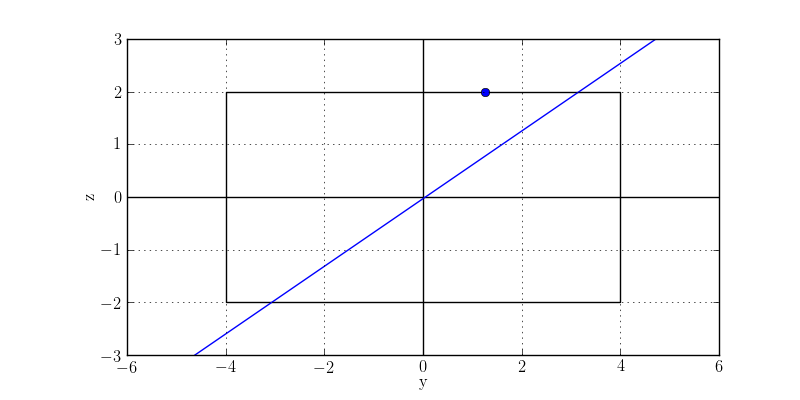
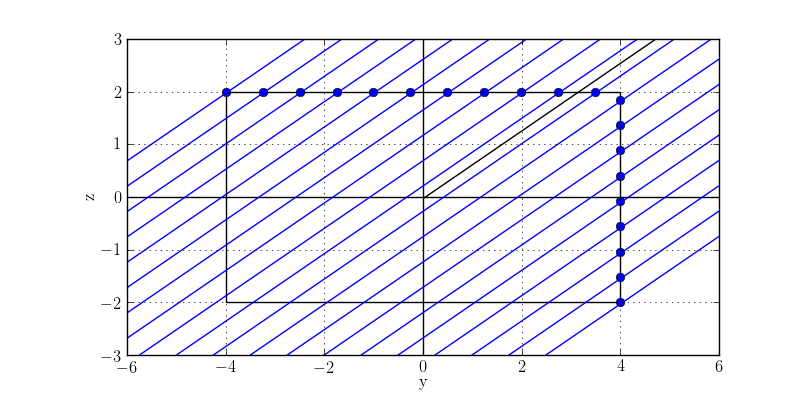
Finds starting x0,y0,z0 robustly

diff --git a/geometry.py b/geometry.py
@@ -29,6 +29,18 @@ class Orientation:
         intercept = z0 - self.slope * y0
         return lambda y: self.slope * y + intercept
 
+    def graph_on_ax(self,ax):
+        ax.grid(True)
+        ax.axhline(0,color="k")
+        ax.axvline(0,color="k")
+        ax.add_patch(plt.Rectangle((-l,-w),2*l,2*w,fill=False))
+        ax.set_xlim(-1.5*l,1.5*l)
+        ax.set_ylim(-1.5*w,1.5*w)
+        ax.set_xlabel("y")
+        ax.set_ylabel("z")
+        ys = np.linspace(0,6.0)
+        ax.plot(ys,self.center_line()(ys),"k")
+
     def __str__(self):
         return """
         theta = {theta:.2f}; {theta_deg:.2f}
@@ -45,34 +57,30 @@ class LineOfSight:
         self.delta = delta
         self.x0 = self.alpha
         self.calc_y0_z0()
+        self.pos()
         pass
 
     def calc_y0_z0(self):
         if self.delta > self.orn.delta_c:
             self.z0 = w
-            if self.delta > 0:
-                self.y0 = w * np.tan(self.orn.theta) - self.delta/np.cos(self.orn.theta)
-            else:
-                self.y0 = w * np.tan(self.orn.theta) + self.delta/np.cos(self.orn.theta)
+            self.y0 = w * np.tan(self.orn.theta) - self.delta/np.cos(self.orn.theta)
+            self.s_finish = 2.0*w/np.cos(self.orn.theta)
         else:
             self.y0 = l
-            self.z0 = l/np.tan(self.orn.theta) - self.delta/np.sin(self.orn.theta)
+            self.z0 = self.delta/np.sin(self.orn.theta) + l/np.tan(self.orn.theta)
+            self.s_finish = 2.0*l/np.sin(self.orn.theta)
 
-    def graph_on_ax(self,ax):
+    def pos(self,s):
+        x = self.x0
+        y = self.y0 - s * np.sin(self.orn.theta)
+        z = self.z0 - s * np.cos(self.orn.theta)
+        return np.array([x,y,z])
+
+    def graph_on_ax(self,ax,color="b"):
         '''ax is a matplotlib axes object.'''
-        #ax.plot([1,2],[1,2])
-        ax.grid(True)
-        ax.axhline(0,color="k")
-        ax.axvline(0,color="k")
-        ax.add_patch(plt.Rectangle((-l,-w),2*l,2*w,fill=False))
-        ax.set_xlim(-1.5*l,1.5*l)
-        ax.set_ylim(-1.5*w,1.5*w)
-        ax.set_xlabel("y")
-        ax.set_ylabel("z")
         ys = np.linspace(-6.0,6.0)
-        ax.plot(ys,self.orn.center_line()(ys))
-        #ax.plot(ys,self.line_through_point(
         ax.plot(self.y0,self.z0,"bo")
+        ax.plot(ys,self.orn.line_through_point((self.y0,self.z0))(ys),color)
         return
 
     def __str__(self):

diff --git a/geometry_test.py b/geometry_test.py
@@ -31,21 +31,34 @@ def test_delta_0():
     print(los4)
 
 
-def test_plot():
+def test_line_of_sight_w_theta():
     fig = plt.figure(figsize=(8,4))
     ax = fig.add_subplot(111)
-    orn1 = g.Orientation(1.0)
-    los1 = g.LineOfSight(orn1,1.0,0.0)
+    deg = 89.999
+    orn1 = g.Orientation(deg * np.pi/180.)
+    delta_array = np.linspace(-1*orn1.delta_limit, orn1.delta_limit,num=20)
+    los_array = [g.LineOfSight(orn1, i, 0.0) for i in delta_array]
+    orn1.graph_on_ax(ax)
     print(orn1)
-    print(los1)
-    los1.graph_on_ax(ax)
-    fig.savefig("test_plot.png")
+    for i in los_array:
+        i.graph_on_ax(ax)
+        #print(i)
+    fig.savefig("Plots/Test_Theta/test_plot{theta:.0f}.png".format(theta=(orn1.theta*180./np.pi)))
+
+def test_path_length():
+    fig = plt.figure(figsize=(8,4))
+    ax = fig.add_subplot(111)
+    deg = 50.0
+    orn1 = g.Orientation(deg * np.pi/180.)
+    orn1.graph_on_ax(ax)
+    print(orn1)
+    fig.savefig("Plots/Test_Path_Length/path_length.png")
 
 
 def main():
     #test_delta_0()
     #test_delta()
-    test_plot()
+    #test_plot()
     pass
 
 if __name__=="__main__":
